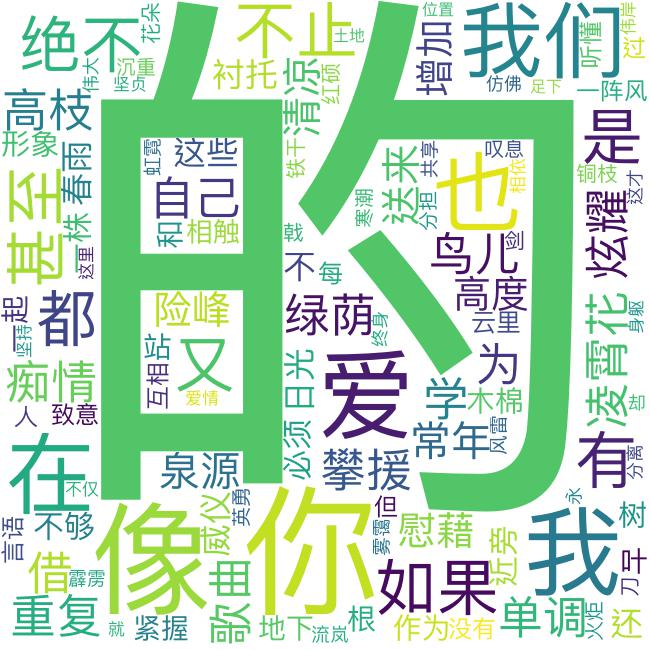
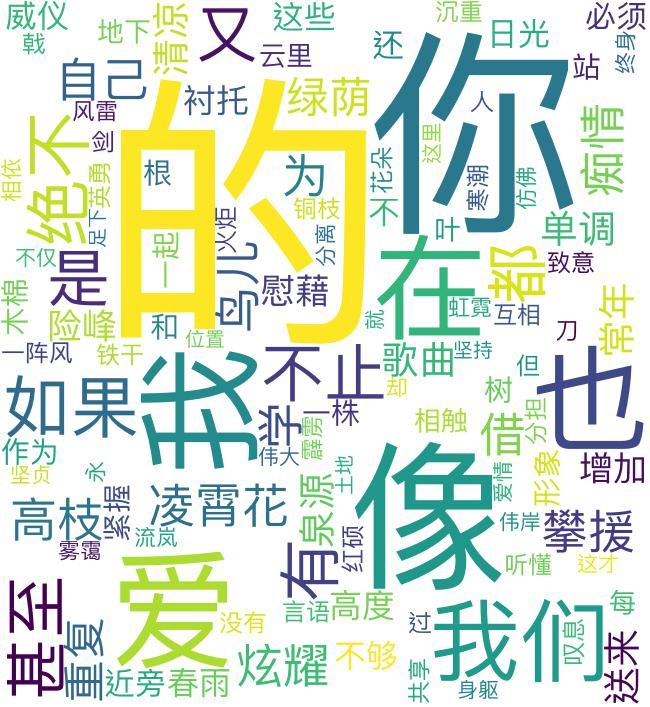
词云表白专用

diff --git a/word_cloud/main.py b/word_cloud/main.py
@@ -17,9 +17,10 @@
 #
 #-------------------------------------------------------------------
 '''
+import jieba
+import numpy as np
+import PIL.Image as image
 from wordcloud import WordCloud
-import cv2, jieba
-import matplotlib.pyplot as plt
 
 class wordCloud:
     '''
@@ -51,7 +52,7 @@ class wordCloud:
             word = f.read()
 
         cut_word = ' '.join(jieba.cut(word))
-        color_mask = cv2.imread(self.bg_img)
+        color_mask = np.array(image.open(self.bg_img))
 
         word_cloud = WordCloud(
             # 设置字体，不指定就会出现乱码
@@ -64,13 +65,11 @@ class wordCloud:
             max_words=120,
             # 最大号字体
             max_font_size=2000
-        )
+        ).generate(cut_word)
 
-        result = word_cloud.generate(cut_word)
-        result.to_file('word_cloud.jpg')
-        plt.imshow(result, interpolation='bilinear')
-        plt.axis('off')
-        plt.show()
+        word_cloud.to_file('word_cloud.jpg')
+        image = word_cloud.to_image()
+        image.show()
 
 
 if __name__ == '__main__':
